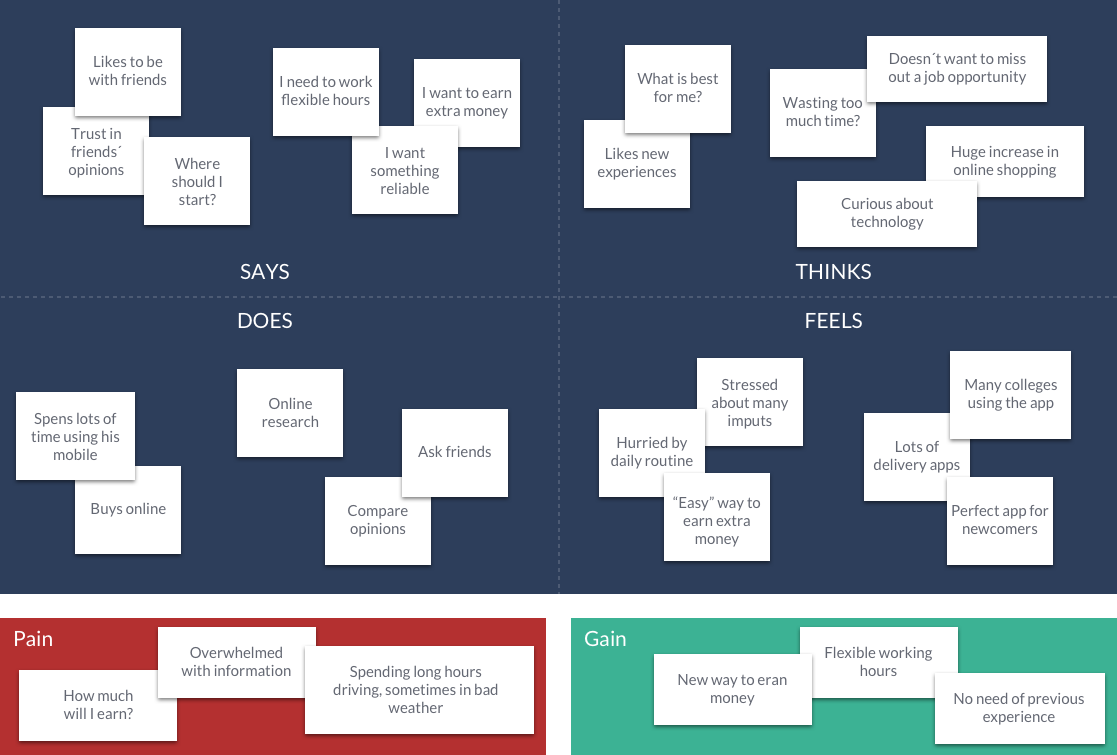
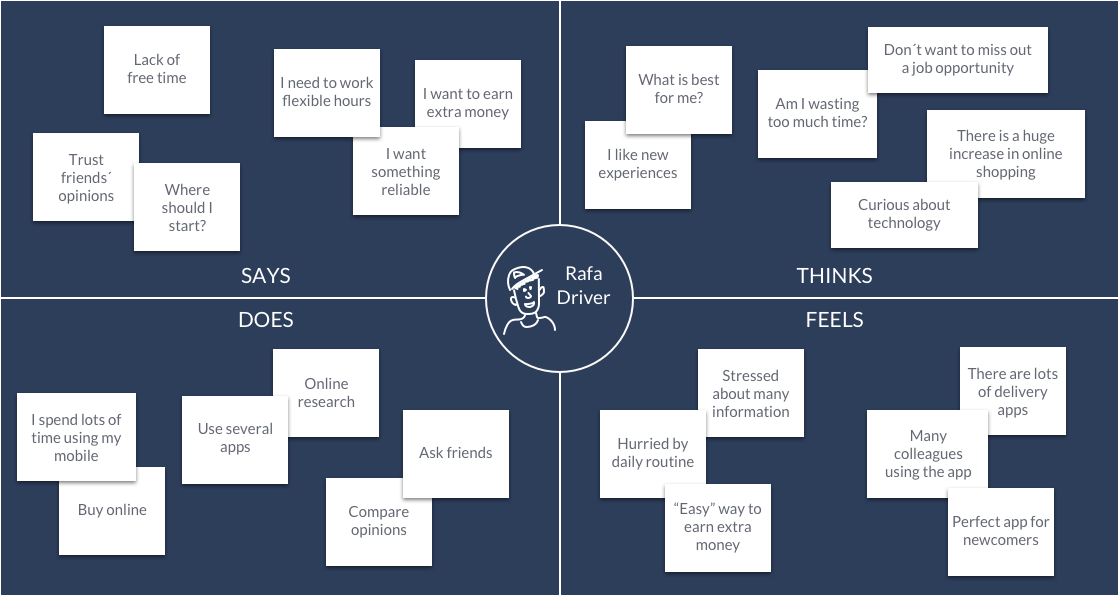
app: change analysis + empathy + draft img

diff --git a/_projects/app.html b/_projects/app.html
@@ -21,20 +21,20 @@ full_width: true
 <img src="/assets/imgs/projects/app/app-survey.jpg" class="w-70-ns v-mid mb5 mb6-ns center db ba bw05 b--my-light-blue" >
 
 
+<h3 class="mid-gray f3 f2-ns mb0 tc w-100 w-70-ns center">Empathie/Understanding users</h3>
+<p class="mid-gray f5 f4-ns mb4 mt3 w-100 w-50-ns center">
+  To develop a better solution we used an emathie map to visualize our users' needs. 
+  Discoving insights in a simple and visual map.
+</p>
+<img src="/assets/imgs/projects/app/app-emathie.png" class="w-70-ns v-mid mb5 mb6-ns center db ba bw05 b--my-light-blue" >
+
+
 <h3 class="mid-gray f3 f2-ns mb0 tc w-100 w-70-ns center">Analysis</h3>
 <p class="mid-gray f5 f4-ns mb4 mt3 w-100 w-50-ns center">
   Identify errors and oportunity.  
-  I wanted to undestand: their needs, regular actions, painful actions, regular flow,…. among many others.
+  I wanted to undestand: their needs, painful actions, interests,… among many others.
 </p>
-<img src="/assets/imgs/projects/app/app-analysis.jpeg" class="w-70-ns v-mid mb5 mb6-ns center db ba bw05 b--my-light-blue" >
-
-
-<h3 class="mid-gray f3 f2-ns mb0 tc w-100 w-70-ns center">Empathie</h3>
-<p class="mid-gray f5 f4-ns mb4 mt3 w-100 w-50-ns center">
-  Ut wisi enim ad minim veniam, quis nostrud exerci tation ullamcorper 
-  suscipit lobortis nisl ut aliquip ex ea commodo consequat. 
-</p>
-<img src="/assets/imgs/projects/app/app-emathie.png" class="w-70-ns v-mid mb5 mb6-ns center db ba bw05 b--my-light-blue" >
+<img src="/assets/imgs/projects/app/app-analysis.png" class="w-70-ns v-mid mb5 mb6-ns center db ba bw05 b--my-light-blue" >
 
 
 <h3 class="mid-gray f3 f2-ns mb0 tc w-100 w-70-ns center">Ideate and validate</h3>
@@ -43,9 +43,9 @@ full_width: true
   suscipit lobortis nisl ut aliquip ex ea commodo consequat.    
 </p>
 <div class="w-70-ns v-mid mb5 mb6-ns center">
-  <img src="/assets/imgs/projects/app/app-draft1.jpg" class="border-box fl w-50 pr1-ns">
+  <img src="/assets/imgs/projects/app/mobile-template-4.jpg" class="border-box fl w-50 pr1-ns">
   <img src="/assets/imgs/projects/app/app-draft2.jpg" class="border-box fl w-50 pl1-ns mb3">
-  <img src="/assets/imgs/projects/app/app-draft1.jpg" class="border-box mb3">
+  <img src="/assets/imgs/projects/app/mobile-template-4.jpg" class="border-box mb3">
 </div>
 
 
